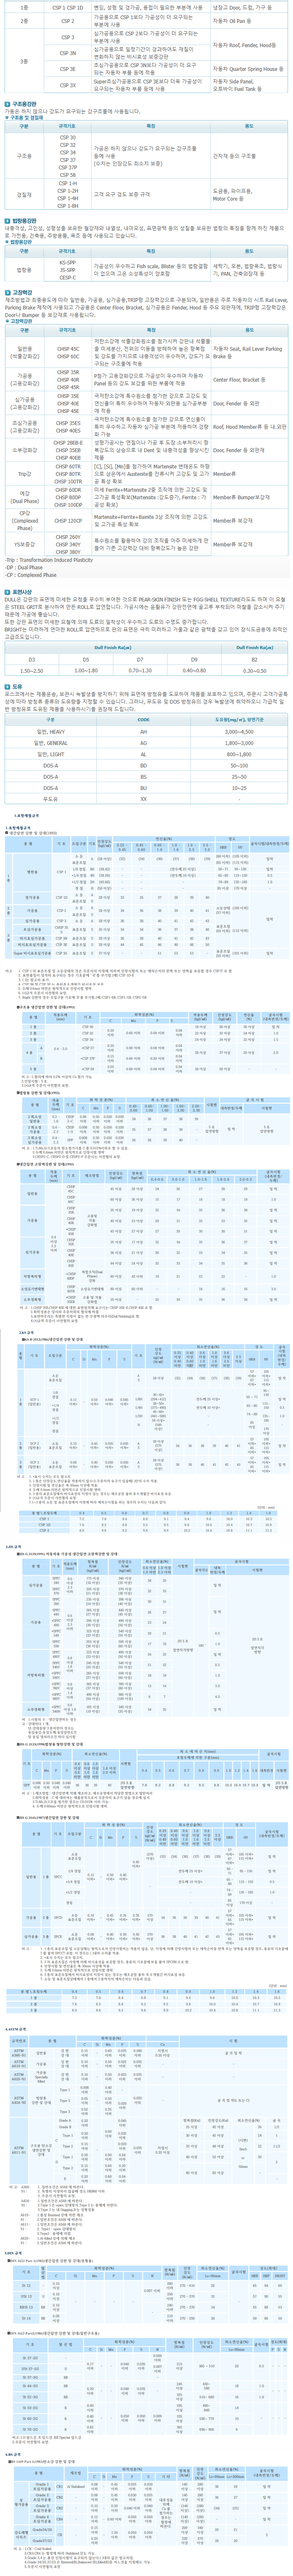
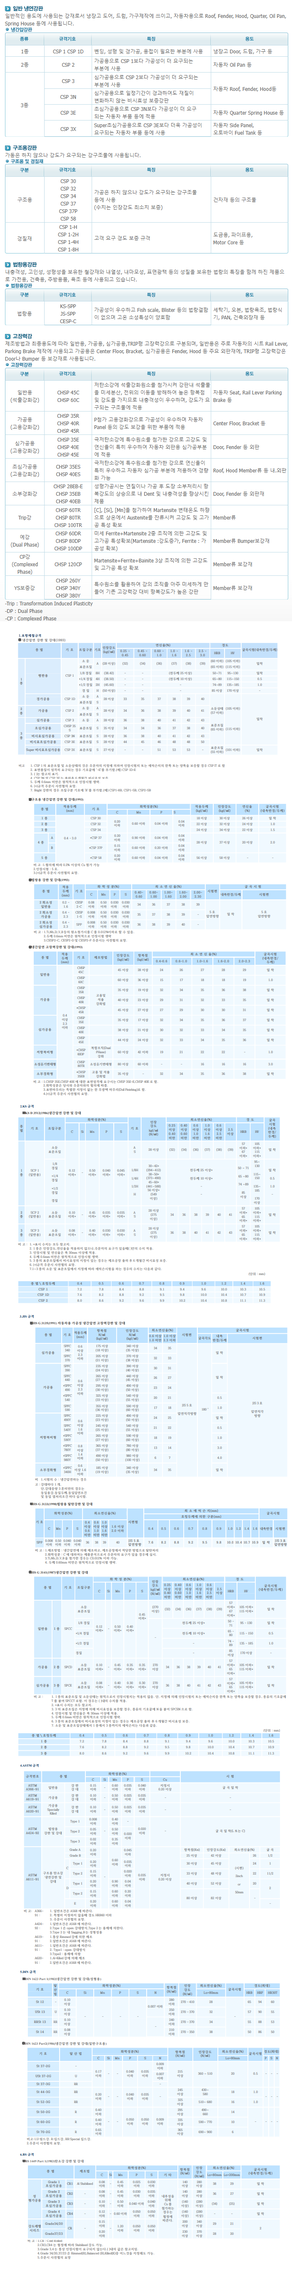
fiftyseven commit

diff --git a/product/product3.html b/product/product3.html
@@ -77,14 +77,6 @@
       <div class="col-lg-12 col-md-12 col-sm-12 col-lg-12 text-center">
         <div class="subpage-title">CGI(용융아연도금강판)</div><hr>
         <div class="subpage-cont">
-          <div class="part1">
-            <div class="part1-1 wow fadeInUp">
-              <img src="./images/product_cgi.webp" alt="product_cgi">
-            </div>
-            <div class="part1-2 wow fadeInUp">
-              <img src="./images/product_ga.webp" alt="product_ga">
-            </div>
-          </div>
           <div class="part2 wow fadeInUp">
             <ul>
               <li>냉각압연 강판을 소재로하여 전처리작업, 소둔작업, 아연코팅작업, 조질압연, 후처리작업</li>
@@ -94,6 +86,14 @@
           <div class="part3 wow fadeInUp"><img src="./images/special_cgi.webp" alt="special"></div>
           <div class="part4 wow fadeInUp"><img src="./images/spec_cgi.webp" alt="spec"></div>
           <div class="part5 wow fadeInUp"><img src="./images/gi-img.webp" alt="spec"></div>
+        </div>
+        <div class="part1">
+          <div class="part1-1 wow fadeInUp">
+            <img src="./images/product_cgi.webp" alt="product_cgi">
+          </div>
+          <div class="part1-2 wow fadeInUp">
+            <img src="./images/product_ga.webp" alt="product_ga">
+          </div>
         </div>
 
       </div>

diff --git a/product/product1.html b/product/product1.html
@@ -78,18 +78,20 @@
       <div class="col-lg-12 col-md-12 col-sm-12 col-lg-12 text-center">
         <div class="subpage-title">PO(산세강판)</div><hr>
         <div class="subpage-cont">
-          <div class="part1 wow fadeInUp">
-            <img src="./images/product_po.webp" alt="product_po">
-          </div>
           <div class="part2 wow fadeInUp">
             <ul>
               <li>연속주조로 만들어진 슬리브를 사상압연 작업을 통해 가공된 소재를 염산(HCI)를 이용하여</li>
               <li>표면스케일을 제거하고 Skin pass Mill을 통과한 제품입니다.</li>
             </ul>
           </div>
-          <div class="part3 wow fadeInUp"><img src="./images/special_po.webp" alt="special"></div>
+          <div class="part3 wow fadeInUp">
+            <img src="./images/special_po.webp" alt="special">
+          </div>
           <div class="part4 wow fadeInUp"><img src="./images/spec_po.webp" alt="spec"></div>
           <div class="part5 wow fadeInUp"><img src="./images/hgi-img.webp" alt="special"></div>
+          <div class="part1 wow fadeInUp">
+            <img src="./images/product_po.webp" alt="product_po">
+          </div>
         </div>
       </div>
     </div>

diff --git a/product/product2.html b/product/product2.html
@@ -77,9 +77,7 @@
       <div class="col-lg-12 col-md-12 col-sm-12 col-lg-12 text-center">
         <div class="subpage-title">CR(냉연강판)</div><hr>
         <div class="subpage-cont">
-          <div class="part1 wow fadeInUp">
-            <img src="./images/product_cr.webp" alt="product_cr">
-          </div>
+          
           <div class="part2 wow fadeInUp">
             <ul>
               <li>열연코일을 소재로 산세작업, 냉각압연작업, 전해청정작업, 열처리작업(어닐링),</li>
@@ -88,7 +86,10 @@
           </div>
           <div class="part3 wow fadeInUp"><img src="./images/special_cr.webp" alt="special"></div>
           <div class="part4 wow fadeInUp"><img src="./images/spec_cr.webp" alt="spec"></div>
-          <div class="part5 wow fadeInUp"><img src="./images/cr-img.webp" alt="spec"></div>
+          <div class="part5 wow fadeInUp"><img src="./images/cr-img.png" alt="spec"></div>
+          <div class="part1 wow fadeInUp">
+            <img src="./images/product_cr.webp" alt="product_cr">
+          </div>
         </div>
       </div>
     </div>

diff --git a/product/product4.html b/product/product4.html
@@ -77,9 +77,6 @@
       <div class="col-lg-12 col-md-12 col-sm-12 col-lg-12 text-center">
         <div class="subpage-title">HGI(열연아연도금강판)</div><hr>
         <div class="subpage-cont">
-          <div class="part1 wow fadeInUp">
-            <img src="./images/product_hgi.webp" alt="product_hgi">
-          </div>
           <div class="part2 wow fadeInUp">
             <ul>
               <li>열연압연 강판을 소재로하여 산세작업, 열처리작업, 아연코팅작업, 조질압연, 후처리작업</li>
@@ -88,7 +85,12 @@
             </ul>
           </div>
           <div class="part3 wow fadeInUp"><img src="./images/special_hgi.webp" alt="special"></div>
+          
+          <div class="part1 wow fadeInUp">
+            <img src="./images/product_hgi.webp" alt="product_hgi">
+          </div>
         </div>
+
         
       </div>
     </div>

diff --git a/product/product5.html b/product/product5.html
@@ -76,7 +76,7 @@
       <div class="col-lg-12 col-md-12 col-sm-12 col-lg-12 text-center">
         <div class="subpage-title">EGI(전기아연도금강판)</div><hr>
         <div class="subpage-cont">
-          <div class="part1 wow fadeInUp">
+          <div class="wow fadeInUp">
             <img src="./images/product_egi.webp" alt="product_egi">
           </div>
           <div class="part2 wow fadeInUp">

diff --git a/customer/customer3.html b/customer/customer3.html
@@ -82,7 +82,7 @@
             <ul>
               <li>엄윤주 실장</li>
               <li>TEL. 031-319-3823</li>
-              <li>MOBILE. 010-9177-3823</li>
+              <li>MOBILE. 010-3084-0120</li>
               <li>E-MAIL. jky3823@nate.com</li>
             </ul>
           </div>

diff --git a/product/css/product.css b/product/css/product.css
@@ -7,7 +7,7 @@
 .part2 li {font-size:20px;}
 .part2 > ul { margin: 25px 0 50px 0;}
 .part1-1, .part1-2 {width:44%; float: left; margin: 0 3%; }
-.part1 {overflow: hidden;}
+.part1 {overflow: hidden; padding: 5% 0;}
 .part1 img {width:800px;}
 
 .part5 img {width:80%;}
